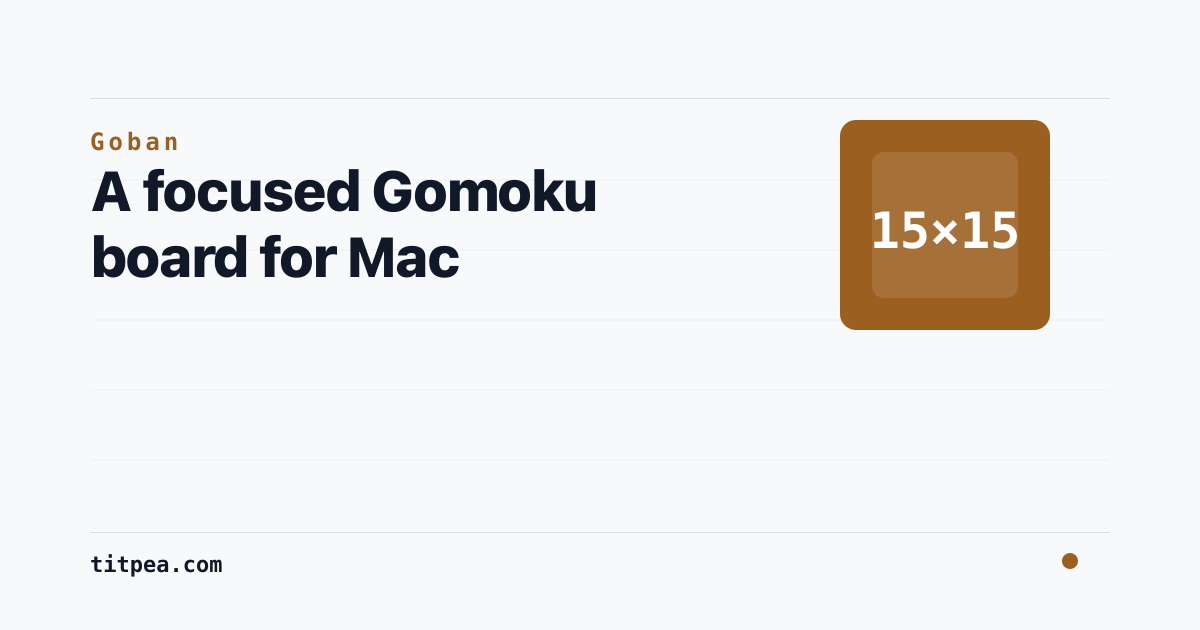
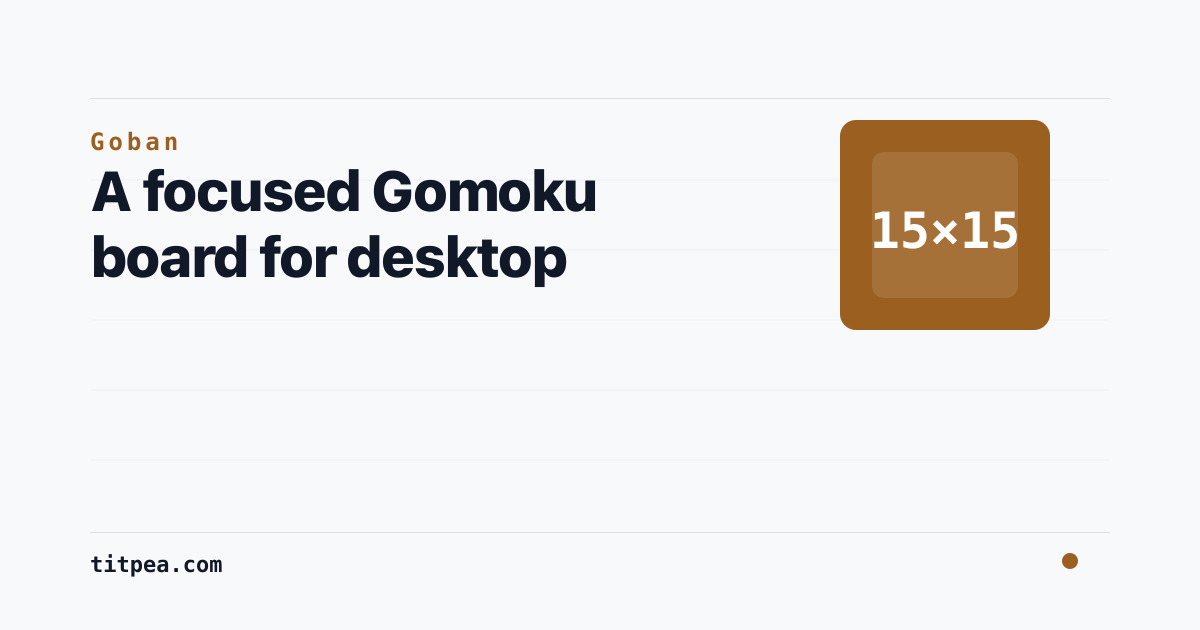
Update Goban for v1.22

Changed region(s): [[0.2775, 0.3619, 0.4933, 0.4524]]

diff --git a/src/content/products/goban.ts b/src/content/products/goban.ts
@@ -12,32 +12,32 @@ export const gobanProduct: NativeAppProduct = {
     en: {
       title: "Goban",
       description:
-        "A native Gomoku game for Apple Silicon Macs, with four AI levels, hints, review coaching, and SGF tools.",
-      eyebrow: "Native macOS game",
-      headline: "A focused Gomoku board for Mac",
-      lead: "Play on a clean 15×15 board, challenge four AI levels, ask for a hint, or import an SGF game and review every move.",
-      primaryCta: { label: "Download for Mac", href: siteConfig.externalLinks.gobanReleases },
+        "A desktop Gomoku game for macOS and Windows, with four AI levels, full-game replay analysis, named saves, and SGF tools.",
+      eyebrow: "Desktop Gomoku game",
+      headline: "A focused Gomoku board for desktop",
+      lead: "Play on a clean 15×15 board, challenge four AI levels, then review the full game through an evaluation curve and a list of decisive mistakes.",
+      primaryCta: { label: "Download latest release", href: siteConfig.externalLinks.gobanReleases },
       secondaryCta: { label: "View source", href: siteConfig.externalLinks.goban },
-      meta: `Apple Silicon · ${facts.licenseLabel} · ${facts.latestRelease} · Local app`,
-      proof: ["Four AI levels", "Review coaching", "SGF import and export", "No network permission"],
+      meta: `macOS + Windows · ${facts.licenseLabel} · ${facts.latestRelease} · Local app`,
+      proof: ["Four AI levels", "Full-game replay", "Named save slots", "SGF import and export"],
       positioningLabel: "Positioning",
       positioning: [
         {
           title: "Use it when",
-          body: "You want a quiet desktop board for a quick game, a harder AI match, or a move-by-move review of an SGF record.",
+          body: "You want a quiet desktop board for a quick game, a harder AI match, or a visual post-game review that shows where the position turned.",
           intent: "fit",
           surface: "artifact",
           priority: "primary",
         },
         {
-          title: "Current platform",
-          body: "The published build is for Apple Silicon Macs. It is a local game, not an online match service or a cross-platform client.",
+          title: "Current platforms",
+          body: "The release includes Apple Silicon macOS and Windows x64 builds. An Intel Mac build is not currently published, and there is no online matchmaking.",
           intent: "boundary",
           surface: "artifact",
         },
         {
-          title: "Local by construction",
-          body: "The app declares no network permissions and denies external navigation. Games and imported records stay on the Mac.",
+          title: "Local by design",
+          body: "Play, saves, analysis, and imported records run locally with no account required. Goban is a desktop board, not an online game service.",
           intent: "boundary",
           surface: "artifact",
         },
@@ -57,8 +57,14 @@ export const gobanProduct: NativeAppProduct = {
           surface: "artifact",
         },
         {
-          title: "Review coaching",
-          body: "Step through earlier moves to see wins, missed wins, blunders, best moves, and a stronger point marked on the board when available.",
+          title: "Replay 2.0",
+          body: "Open a full-game evaluation curve and a blunder list after a match. Select a point or mistake to jump directly to that move on the board.",
+          intent: "capability",
+          surface: "artifact",
+        },
+        {
+          title: "Named save slots",
+          body: "Keep up to 30 named local saves, then resume the position you want instead of overwriting one global checkpoint.",
           intent: "capability",
           surface: "artifact",
         },
@@ -70,7 +76,7 @@ export const gobanProduct: NativeAppProduct = {
         },
         {
           title: "Board controls that stay close",
-          body: "Toggle the sidebar and coordinates, undo or start over from the keyboard, and use native macOS full screen.",
+          body: "Toggle the sidebar and coordinates, undo or start over from the keyboard, and keep the move list and analysis within reach.",
           intent: "capability",
           surface: "artifact",
         },
@@ -78,12 +84,12 @@ export const gobanProduct: NativeAppProduct = {
       faqLabel: "Questions & download",
       faq: [
         {
-          title: "Which Macs are supported?",
-          body: "The current release provides an Apple Silicon arm64 build for macOS. An Intel build is not published.",
+          title: "Which systems are supported?",
+          body: "The current release provides an Apple Silicon arm64 build for macOS and an x64 build for Windows. An Intel Mac build is not published.",
         },
         {
           title: "Does it need an account or internet connection?",
-          body: "No. The app has no account and declares no network permission. Downloading a release is the only online step.",
+          body: "No account is required. Gameplay, saves, analysis, and SGF work stay local; you only need the internet to download a release.",
         },
         {
           title: "Can I bring in an existing game?",
@@ -93,32 +99,32 @@ export const gobanProduct: NativeAppProduct = {
     },
     zh: {
       title: "五子棋 Goban",
-      description: "原生 Apple Silicon macOS 五子棋，提供四档 AI、提示、复盘分析与 SGF 棋谱工具。",
-      eyebrow: "原生 macOS 游戏",
-      headline: "一张专注对弈的 Mac 五子棋盘",
-      lead: "在干净的 15×15 棋盘上对弈，挑战四档 AI，按需查看提示，也可以导入 SGF 棋谱逐手复盘。",
-      primaryCta: { label: "下载 Mac 版", href: siteConfig.externalLinks.gobanReleases },
+      description: "面向 macOS 与 Windows 的桌面五子棋，提供四档 AI、全局复盘、多存档与 SGF 棋谱工具。",
+      eyebrow: "桌面五子棋",
+      headline: "一张专注对弈的桌面五子棋盘",
+      lead: "在干净的 15×15 棋盘上挑战四档 AI；对局结束后，通过胜负走势曲线和失着列表回看局势从哪里发生变化。",
+      primaryCta: { label: "下载最新版本", href: siteConfig.externalLinks.gobanReleases },
       secondaryCta: { label: "查看源码", href: siteConfig.externalLinks.goban },
-      meta: `Apple Silicon · ${facts.licenseLabel} · ${facts.latestRelease} · 本地应用`,
-      proof: ["四档 AI", "复盘分析", "SGF 导入与导出", "无网络权限"],
+      meta: `macOS + Windows · ${facts.licenseLabel} · ${facts.latestRelease} · 本地应用`,
+      proof: ["四档 AI", "全局复盘", "多存档", "SGF 导入与导出"],
       positioningLabel: "适用与边界",
       positioning: [
         {
           title: "什么时候用",
-          body: "想安静下一局棋、挑战更高难度 AI，或把一份 SGF 棋谱逐手打开复盘。",
+          body: "想安静下一局棋、挑战更高难度 AI，或在局后直观看清局势从哪一手开始转折。",
           intent: "fit",
           surface: "artifact",
           priority: "primary",
         },
         {
           title: "当前支持范围",
-          body: "已发布版本面向 Apple Silicon Mac。它是本地棋盘，不提供在线匹配，也不是跨平台客户端。",
+          body: "当前 release 提供 Apple Silicon macOS 与 Windows x64 构建，暂未发布 Intel Mac 版本，也不提供在线匹配。",
           intent: "boundary",
           surface: "artifact",
         },
         {
           title: "本地运行",
-          body: "应用不声明网络权限，并禁止外部导航。当前棋局和导入的棋谱都留在 Mac 上。",
+          body: "对弈、存档、分析和导入的棋谱都在本地完成，不需要账号。Goban 是桌面棋盘，不是在线对战服务。",
           intent: "boundary",
           surface: "artifact",
         },
@@ -138,8 +144,14 @@ export const gobanProduct: NativeAppProduct = {
           surface: "artifact",
         },
         {
-          title: "复盘教练标注",
-          body: "翻看较早手数时，显示制胜、错失胜着、漏防、最佳一手或更优落点；可用时会在棋盘标出建议位置。",
+          title: "复盘 2.0",
+          body: "局后打开全局胜负走势曲线和失着列表；点击曲线节点或失着条目，即可直接跳到棋盘上的对应手数。",
+          intent: "capability",
+          surface: "artifact",
+        },
+        {
+          title: "命名多存档",
+          body: "最多保留 30 个带名称的本地存档，按局面选择继续，不必让一个全局存档反复覆盖。",
           intent: "capability",
           surface: "artifact",
         },
@@ -151,7 +163,7 @@ export const gobanProduct: NativeAppProduct = {
         },
         {
           title: "随手可用的棋盘控制",
-          body: "切换侧栏和坐标，使用快捷键悔棋或新开一局，也支持 macOS 原生全屏。",
+          body: "切换侧栏和坐标，用快捷键悔棋或新开一局，着法记录与分析入口始终在手边。",
           intent: "capability",
           surface: "artifact",
         },
@@ -159,12 +171,12 @@ export const gobanProduct: NativeAppProduct = {
       faqLabel: "常见问题与下载",
       faq: [
         {
-          title: "支持哪些 Mac？",
-          body: "当前 release 提供 macOS Apple Silicon arm64 构建，暂未发布 Intel 版本。",
+          title: "支持哪些系统？",
+          body: "当前 release 提供 macOS Apple Silicon arm64 与 Windows x64 构建，暂未发布 Intel Mac 版本。",
         },
         {
           title: "需要账号或联网吗？",
-          body: "不需要。应用没有账号系统，也不声明网络权限；只有下载 release 时需要联网。",
+          body: "不需要账号。对弈、存档、分析和 SGF 操作都在本地完成；只有下载 release 时需要联网。",
         },
         {
           title: "可以导入已有棋局吗？",

diff --git a/src/content/visualModels.ts b/src/content/visualModels.ts
@@ -64,18 +64,9 @@ export type HttpmonTerminalVisualModel = {
 };
 
 export type ScreenshotVisualModel = {
-  kind: "worldClockScreenshot" | "doubanScreenshot" | "easierBookmarksScreenshot";
+  kind: "worldClockScreenshot" | "doubanScreenshot" | "gobanScreenshot" | "easierBookmarksScreenshot";
   label: string;
   images: Array<{ src: string; alt: string; className?: string; width: number; height: number }>;
-};
-
-export type GobanBoardVisualModel = {
-  kind: "gobanBoard";
-  label: string;
-  status: string;
-  turn: string;
-  hint: string;
-  moves: string;
 };
 
 export type PagewiseWorkbenchVisualModel = {
@@ -132,7 +123,6 @@ export type ProductVisualModel =
   | AgentWorkbenchScreenshotVisualModel
   | HttpmonTerminalVisualModel
   | AgentRadarTerminalVisualModel
-  | GobanBoardVisualModel
   | ScreenshotVisualModel;
 
 export function visualModel(kind: VisualPolicy, locale: Locale, label: string, slug?: string): ProductVisualModel {
@@ -303,12 +293,18 @@ export function visualModel(kind: VisualPolicy, locale: Locale, label: string, s
     };
   }
 
-  if (kind === "gobanBoard") {
-    const copy = visualCopy.gobanBoard[locale];
+  if (kind === "gobanScreenshot") {
     return {
       kind,
       label,
-      ...copy,
+      images: [
+        {
+          src: siteConfig.assets.screenshots.gobanReview,
+          alt: visualCopy.screenshots[locale].goban,
+          width: 1224,
+          height: 768,
+        },
+      ],
     };
   }
 

diff --git a/src/content/i18n/visualCopy.ts b/src/content/i18n/visualCopy.ts
@@ -260,32 +260,19 @@ export const visualCopy = {
     },
   },
 
-  gobanBoard: {
-    en: {
-      status: "VS AI · EXTREME · STANDARD",
-      turn: "BLACK TO MOVE",
-      hint: "H · HINT",
-      moves: "MOVE 18",
-    },
-    zh: {
-      status: "人机 · 极难 · 标准",
-      turn: "黑方行棋",
-      hint: "H · 提示",
-      moves: "第 18 手",
-    },
-  },
-
   screenshots: {
     en: {
       worldClockLight: "World Clock light theme timezone feed screenshot",
       worldClockDark: "World Clock dark theme timezone feed screenshot",
       douban: "Douban Movie Rating Assistant showing IMDb, Rotten Tomatoes, and Metacritic inside a Douban movie page",
+      goban: "Goban 1.22 replay analysis showing the evaluation curve, blunder list, move history, and 15 by 15 board",
       easierBookmarks: "Easier Bookmarks Chrome side panel showing a searchable bookmark tree",
     },
     zh: {
       worldClockLight: "世界时钟浅色主题时区列表截图",
       worldClockDark: "世界时钟深色主题时区列表截图",
       douban: "豆瓣电影评分助手在豆瓣电影页中显示 IMDb、Rotten Tomatoes 和 Metacritic 评分的截图",
+      goban: "Goban 1.22 复盘分析界面，显示胜率曲线、失着列表、着法记录和 15×15 棋盘",
       easierBookmarks: "Easier Bookmarks Chrome 侧边栏，显示可搜索的书签树",
     },
   },

diff --git a/src/content/i18n/pageCopy.ts b/src/content/i18n/pageCopy.ts
@@ -17,8 +17,8 @@ export const catalogCopy = {
     agentRadarText:
       "Unattended Agent-industry research loop on GitHub Actions — theses and watchlists kept in Markdown.",
     agentRadarRole: "Research pipeline",
-    gobanText: "A native macOS Gomoku board for focused play, analysis, and SGF review.",
-    gobanRole: "macOS game",
+    gobanText: "A desktop Gomoku board with four AI levels, full-game replay analysis, and SGF tools.",
+    gobanRole: "Desktop game",
     easierBookmarksText: "Search and organize Chrome bookmarks without leaving the side panel.",
     easierBookmarksRole: "Bookmark manager",
   },
@@ -39,8 +39,8 @@ export const catalogCopy = {
     pagewiseRole: "文档 agent",
     agentRadarText: "跑在 GitHub Actions 上的 Agent 产业研究循环，每周论点与观察名单留在 Markdown。",
     agentRadarRole: "研究流水线",
-    gobanText: "原生 macOS 五子棋：专注对弈、提示、复盘与 SGF 棋谱。",
-    gobanRole: "macOS 游戏",
+    gobanText: "桌面五子棋：四档 AI、全局复盘分析与 SGF 棋谱工具。",
+    gobanRole: "桌面游戏",
     easierBookmarksText: "在 Chrome 侧边栏里快速搜索、浏览和整理书签。",
     easierBookmarksRole: "书签管理器",
   },

diff --git a/src/content/productArchetypes.ts b/src/content/productArchetypes.ts
@@ -25,7 +25,7 @@ export type VisualPolicy =
   | "pagewiseWorkbench"
   | "agentWorkbenchScreenshot"
   | "agentRadarTerminal"
-  | "gobanBoard"
+  | "gobanScreenshot"
   | "easierBookmarksScreenshot";
 export type ProductGroup = "storage" | "personal";
 
@@ -45,7 +45,7 @@ export type ProductArchetypeContract = {
   sectionIndex: boolean;
   indexLabel: Record<Locale, string>;
   applicationCategory: "DeveloperApplication" | "BrowserApplication" | "GameApplication";
-  operatingSystem: "Cross-platform" | "Chrome" | "macOS";
+  operatingSystem: "Cross-platform" | "Chrome" | "macOS and Windows";
   defaultVisual: VisualPolicy;
   sections: ArchetypeSectionSpec[];
 };
@@ -241,8 +241,8 @@ export const productArchetypeContracts: Record<ProductArchetype, ProductArchetyp
     sectionIndex: false,
     indexLabel: { en: "Read this page", zh: "阅读路径" },
     applicationCategory: "GameApplication",
-    operatingSystem: "macOS",
-    defaultVisual: "gobanBoard",
+    operatingSystem: "macOS and Windows",
+    defaultVisual: "gobanScreenshot",
     sections: [
       { id: "inside", label: { en: "Overview", zh: "概览" } },
       {

diff --git a/src/content/siteConfig.ts b/src/content/siteConfig.ts
@@ -46,6 +46,7 @@ export const siteConfig = {
       pagewiseAnalysis: "/assets/pagewise-analysis.webp",
       storageAgentWelcome: "/assets/storage-agent-welcome.webp",
       storageAgentInvestigation: "/assets/storage-agent-investigation.webp",
+      gobanReview: "/assets/goban-review.png",
       easierBookmarks: "/assets/easier-bookmarks.png",
     },
   },

diff --git a/src/content/productManifest.ts b/src/content/productManifest.ts
@@ -102,7 +102,7 @@ export const productManifest: readonly ProductManifestItem[] = [
     group: "personal",
     nav: { primary: true, label: "goban" },
     catalog: { order: 5 },
-    visual: "gobanBoard",
+    visual: "gobanScreenshot",
     ogImage: "/assets/og-goban.png",
     factId: "goban",
   },
